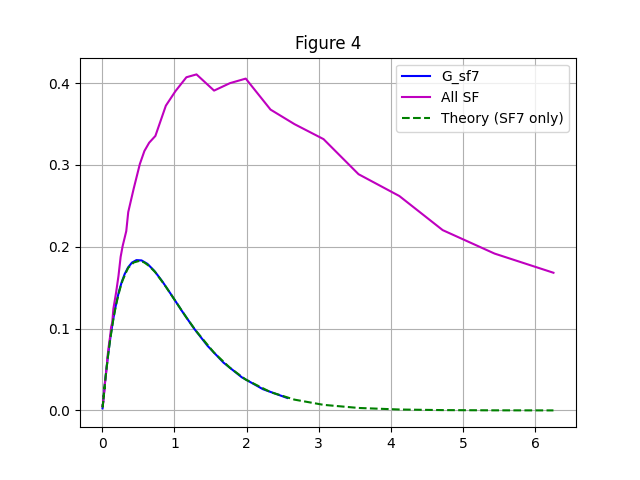
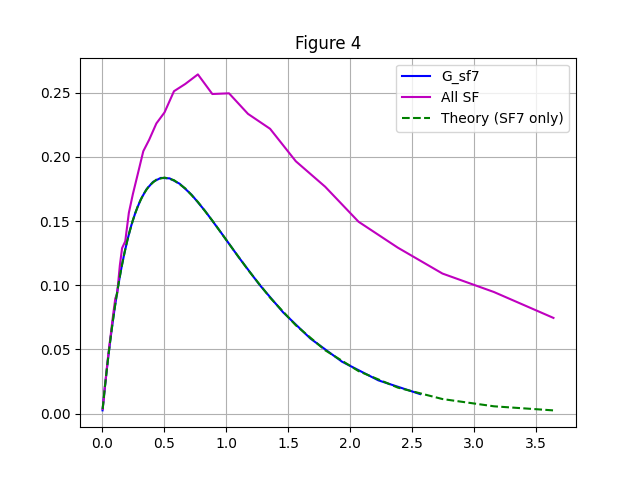
remove buildings from simulation

diff --git a/examples/figure4.cc b/examples/figure4.cc
@@ -40,10 +40,12 @@ int nDevices = 200;
 int nGateways = 1;
 //double radius = 1000;
 double radius = 1000;
+//double simulationTime = 100;
 double simulationTime = 100;
 
 // Channel model
 bool realisticChannelModel = true;
+bool includeBuildings = false;
 
 int appPeriodSeconds = simulationTime;
 int transientPeriods = 0;
@@ -218,7 +220,6 @@ main (int argc, char *argv[])
   Ptr<ListPositionAllocator> allocator = CreateObject<ListPositionAllocator> ();
   // Make it so that nodes are at a certain height > 0
  allocator->Add (Vector (0.0, 0.0, 15.0));
-  //allocator->Add (Vector (0.0, 0.0, 50.0));
   mobility.SetPositionAllocator (allocator);
   mobility.Install (gateways);
 
@@ -227,47 +228,41 @@ main (int argc, char *argv[])
   macHelper.SetDeviceType (LorawanMacHelper::GW);
   helper.Install (phyHelper, macHelper, gateways);
 
- 
-
-
   /**********************
    *  Handle buildings  *
    **********************/
 
-  double xLength = 130;
-  double deltaX = 32;
-  double yLength = 64;
-  double deltaY = 17;
-  int gridWidth = 2 * radius / (xLength + deltaX);
-  int gridHeight = 2 * radius / (yLength + deltaY);
-  if (realisticChannelModel == false)
-    {
-      gridWidth = 0;
-      gridHeight = 0;
-    }
-  Ptr<GridBuildingAllocator> gridBuildingAllocator;
-  gridBuildingAllocator = CreateObject<GridBuildingAllocator> ();
-  gridBuildingAllocator->SetAttribute ("GridWidth", UintegerValue (gridWidth));
-  gridBuildingAllocator->SetAttribute ("LengthX", DoubleValue (xLength));
-  gridBuildingAllocator->SetAttribute ("LengthY", DoubleValue (yLength));
-  gridBuildingAllocator->SetAttribute ("DeltaX", DoubleValue (deltaX));
-  gridBuildingAllocator->SetAttribute ("DeltaY", DoubleValue (deltaY));
-  gridBuildingAllocator->SetAttribute ("Height", DoubleValue (6));
-  gridBuildingAllocator->SetBuildingAttribute ("NRoomsX", UintegerValue (2));
-  gridBuildingAllocator->SetBuildingAttribute ("NRoomsY", UintegerValue (4));
-  gridBuildingAllocator->SetBuildingAttribute ("NFloors", UintegerValue (2));
-  gridBuildingAllocator->SetAttribute (
-      "MinX", DoubleValue (-gridWidth * (xLength + deltaX) / 2 + deltaX / 2));
-  gridBuildingAllocator->SetAttribute (
-      "MinY", DoubleValue (-gridHeight * (yLength + deltaY) / 2 + deltaY / 2));
-  BuildingContainer bContainer = gridBuildingAllocator->Create (gridWidth * gridHeight);
+      double xLength = 130;
+      double deltaX = 32;
+      double yLength = 64;
+      double deltaY = 17;
+      int gridWidth = 2 * radius / (xLength + deltaX);
+      int gridHeight = 2 * radius / (yLength + deltaY);
+      //if (realisticChannelModel == false)
+      if (includeBuildings == false)
+        {
+          gridWidth = 0;
+          gridHeight = 0;
+        }
+      Ptr<GridBuildingAllocator> gridBuildingAllocator;
+      gridBuildingAllocator = CreateObject<GridBuildingAllocator> ();
+      gridBuildingAllocator->SetAttribute ("GridWidth", UintegerValue (gridWidth));
+      gridBuildingAllocator->SetAttribute ("LengthX", DoubleValue (xLength));
+      gridBuildingAllocator->SetAttribute ("LengthY", DoubleValue (yLength));
+      gridBuildingAllocator->SetAttribute ("DeltaX", DoubleValue (deltaX));
+      gridBuildingAllocator->SetAttribute ("DeltaY", DoubleValue (deltaY));
+      gridBuildingAllocator->SetAttribute ("Height", DoubleValue (6));
+      gridBuildingAllocator->SetBuildingAttribute ("NRoomsX", UintegerValue (2));
+      gridBuildingAllocator->SetBuildingAttribute ("NRoomsY", UintegerValue (4));
+      gridBuildingAllocator->SetBuildingAttribute ("NFloors", UintegerValue (2));
+      gridBuildingAllocator->SetAttribute (
+          "MinX", DoubleValue (-gridWidth * (xLength + deltaX) / 2 + deltaX / 2));
+      gridBuildingAllocator->SetAttribute (
+          "MinY", DoubleValue (-gridHeight * (yLength + deltaY) / 2 + deltaY / 2));
+      BuildingContainer bContainer = gridBuildingAllocator->Create (gridWidth * gridHeight);
 
-  BuildingsHelper::Install (endDevices);
-  BuildingsHelper::Install (gateways);
-
-
- 
-
+      BuildingsHelper::Install (endDevices);
+      BuildingsHelper::Install (gateways);
 
   /**********************************************
    *  Set up the end device's spreading factor  *
@@ -280,7 +275,8 @@ main (int argc, char *argv[])
     {
       std::ofstream myfile;
       myfile.open ("/home/steven/Project/ns-3/src/lorawan/examples/endDevices.dat");
-      std::vector<Ptr<Building>>::const_iterator it;
+      //std::vector<Ptr<Building>>::const_iterator it;
+      std::vector<Ptr<Node>>::const_iterator it;
       for (NodeContainer::Iterator j = endDevices.Begin (); j != endDevices.End (); ++j)
         {
           

diff --git a/examples/fig4.py b/examples/fig4.py
@@ -65,6 +65,7 @@ def get_fig_4():
     duration = 0.256256
     simtime = 100
 
+
     G_sf7 = np.array(params['nDevices'])*duration/simtime
 
     duration = np.mean(campaign.get_results_as_numpy_array(params, sim_duration,
@@ -110,8 +111,3 @@ def get_fig_4():
     plt.title("Figure 4")
     plt.savefig('Fig4.png')
 
-if __name__ == '__main__':
-    sys.exit(get_fig_5())
-
-#if __name__ == "__main__":
-#    main()

diff --git a/examples/top_python.py b/examples/top_python.py
@@ -2,9 +2,5 @@
 import sys
 import fig4
 
-def main():
-    fig4.get_fig_4()
-    sys.exit()
-
 if __name__ == "__main__":
-    main()
+    sys.exit(fig4.get_fig_4())
